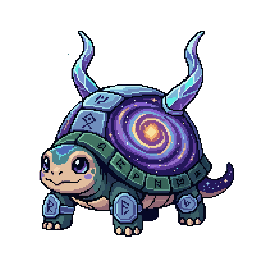
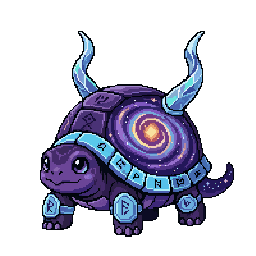
Added rarity size increase. Updated 2 pet images.

diff --git a/apm-rpg.user.js b/apm-rpg.user.js
@@ -1,7 +1,7 @@
 // ==UserScript==
 // @name         APM RPG
 // @namespace    https://w.amazon.com/bin/view/Users/baijosis/APM-RPG/
-// @version      1.0.13
+// @version      1.0.14
 // @description  Gamified RPG layer over APM/PTP - levels, EXP, roaming pets, wild pet catching.
 // @author       baijosis
 // @match        https://*.eam.hxgnsmartcloud.com/*
@@ -408,6 +408,19 @@
   };
   const charById = (id) => CHARACTERS.find(c => c.id === id) || CHARACTERS[0];
   const petById = (id) => PETS.find(p => p.id === id);
+
+  // Rarity-driven size multipliers. Both scale with rarity tier (1..5):
+  //   Sprite scale grows +0.10 per tier over Common (1.0, 1.1, 1.2, 1.3, 1.4)
+  //   Catch-ring scale grows +0.05 per tier over Common (1.0, 1.05, 1.10, 1.15, 1.20)
+  // Consumed via CSS custom properties --rpg-scale / --rpg-catch-scale.
+  const rarityScale = (rarity) => {
+    const m = RARITY_META[rarity];
+    return 1 + 0.1 * (((m && m.tier) || 1) - 1);
+  };
+  const rarityCatchScale = (rarity) => {
+    const m = RARITY_META[rarity];
+    return 1 + 0.05 * (((m && m.tier) || 1) - 1);
+  };
   const instanceById = (iid) => state.collection.find(i => i.instanceId === iid);
   const rand = (a, b) => a + Math.random() * (b - a);
   const clamp = (n, lo, hi) => Math.max(lo, Math.min(hi, n));
@@ -767,10 +780,10 @@
     '.rpg-dex{max-width:620px;width:calc(100vw - 40px);text-align:left;padding:26px 32px}',
     '.rpg-dex-list{max-height:55vh;overflow-y:auto}',
     '.rpg-roam{position:fixed;z-index:2147482900;pointer-events:none;transition:left 10s linear,top 10s linear}',
-    '.rpg-roam img{width:64px;height:64px;object-fit:contain;filter:drop-shadow(0 4px 6px rgba(0,0,0,0.4))}',
+    '.rpg-roam img{width:calc(64px * var(--rpg-scale, 1));height:calc(64px * var(--rpg-scale, 1));object-fit:contain;filter:drop-shadow(0 4px 6px rgba(0,0,0,0.4))}',
     '.rpg-roam .label{font-size:11px;text-align:center;color:#fff;text-shadow:0 1px 2px #000,0 0 4px #000}',
     '.rpg-wild{position:fixed;z-index:2147483100;cursor:pointer;transition:left 3s linear,top 3s linear,transform 300ms}',
-    '.rpg-wild img{width:96px;height:96px;object-fit:contain;filter:drop-shadow(0 0 12px gold)}',
+    '.rpg-wild img{width:calc(96px * var(--rpg-scale, 1));height:calc(96px * var(--rpg-scale, 1));object-fit:contain;filter:drop-shadow(0 0 12px gold)}',
     '.rpg-wild .label{text-align:center;font-size:12px;color:gold;text-shadow:0 1px 2px #000;font-weight:700}',
     '@keyframes rpgLevelUp{0%{transform:scale(1);filter:brightness(1)}30%{transform:scale(1.4);filter:brightness(2) drop-shadow(0 0 12px gold)}100%{transform:scale(1);filter:brightness(1)}}',
     '.rpg-levelup-anim{animation:rpgLevelUp 900ms ease-out}',
@@ -787,7 +800,7 @@
     '@keyframes rpgWildPulse{0%{transform:scale(1)}100%{transform:scale(1.06)}}',
     // ── Wild-pet catch UI ──────────────────────────────────────────
     '.rpg-wild.rpg-catchable{cursor:pointer}',
-    '.rpg-wild.rpg-catchable::before{content:"";position:absolute;left:50%;top:55%;width:130px;height:130px;margin:-65px 0 0 -65px;border:3px dashed gold;border-radius:50%;pointer-events:none;box-sizing:border-box;animation:rpgRingSpin 4s linear infinite;opacity:0.85}',
+    '.rpg-wild.rpg-catchable::before{content:"";position:absolute;left:50%;top:55%;width:calc(130px * var(--rpg-catch-scale, 1));height:calc(130px * var(--rpg-catch-scale, 1));margin:calc(-65px * var(--rpg-catch-scale, 1)) 0 0 calc(-65px * var(--rpg-catch-scale, 1));border:3px dashed gold;border-radius:50%;pointer-events:none;box-sizing:border-box;animation:rpgRingSpin 4s linear infinite;opacity:0.85}',
     '@keyframes rpgRingSpin{to{transform:rotate(360deg)}}',
     '.rpg-wild .catch-hint{text-align:center;color:gold;font-weight:800;font-size:14px;text-shadow:0 1px 2px #000,0 0 6px #000;margin-top:6px;letter-spacing:2px;animation:rpgCatchBounce 900ms ease-in-out infinite alternate}',
     '@keyframes rpgCatchBounce{from{transform:translateY(0);opacity:0.85}to{transform:translateY(-4px);opacity:1}}',
@@ -1641,6 +1654,7 @@
     const el = $('div', { class: cls });
     el.appendChild($('div', { class: 'label', html: (variantBadge(v) ? variantBadge(v) + ' ' : '') + p.name }));
     el.appendChild($('img', { src: petImg(p, v) }));
+    el.style.setProperty('--rpg-scale', String(rarityScale(p.rarity)));
     const initPos = pickQuadrantPoint(80, 80, -9999, -9999, 0);
     el.style.left = Math.floor(initPos.x) + 'px';
     el.style.top  = Math.floor(initPos.y) + 'px';
@@ -1693,6 +1707,8 @@
     wildEl.appendChild($('div', { class: 'label', html: vLabel }));
     wildEl.appendChild($('img', { src: petImg(wildPet, wildVariant) }));
     wildEl.appendChild($('div', { class: 'catch-hint', html: 'CATCH!' }));
+    wildEl.style.setProperty('--rpg-scale', String(rarityScale(wildPet.rarity)));
+    wildEl.style.setProperty('--rpg-catch-scale', String(rarityCatchScale(wildPet.rarity)));
     const wInit = pickQuadrantPoint(160, 200, -9999, -9999, 0);
     wildEl.style.left = Math.floor(wInit.x) + 'px';
     wildEl.style.top  = Math.floor(wInit.y) + 'px';